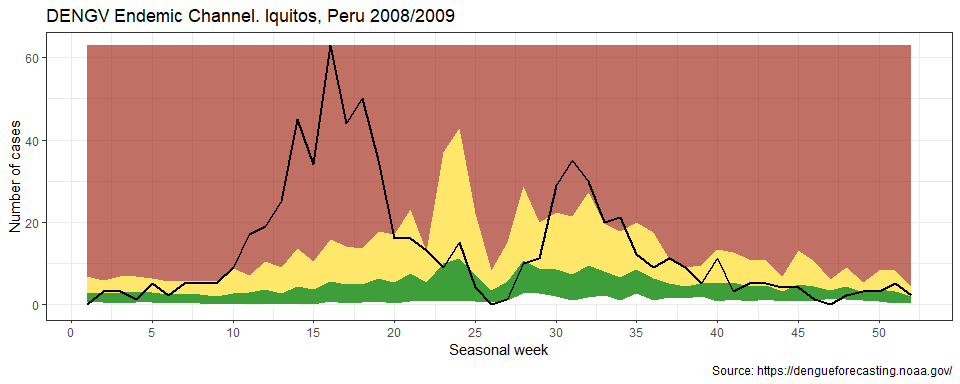
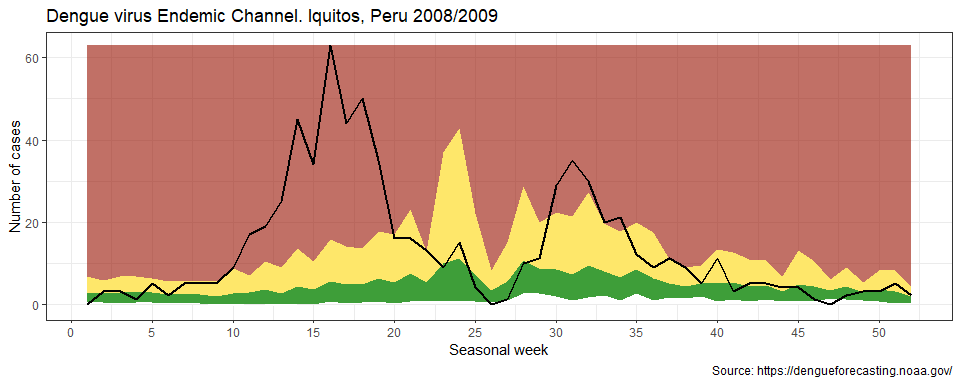
fix type at example and readme

Changed region(s): [[0.0625, 0.0, 0.5312, 0.0625]]

diff --git a/README.md b/README.md
@@ -40,7 +40,7 @@ library(epichannel)
 library(tidyverse)
 
 # disease dataset
-dengv <-
+denv <-
   readr::read_csv("https://dengueforecasting.noaa.gov/Training/Iquitos_Training_Data.csv") %>%
   mutate(year = lubridate::year(week_start_date),
          epiweek = lubridate::epiweek(week_start_date)) %>%
@@ -48,7 +48,7 @@ dengv <-
   # cases per season - replace wiht a dummy year
   mutate(year = str_replace(season,"(.+)/(.+)","\\1") %>% as.double())
 
-dengv %>% glimpse()
+denv %>% glimpse()
 #> Rows: 468
 #> Columns: 12
 #> $ season               <chr> "2000/2001", "2000/2001", "2000/2001", "2...
@@ -84,7 +84,7 @@ popdb %>% glimpse()
 
 ``` r
 epi_adapted <-
-  epi_adapt_timeserie(db_disease = dengv,
+  epi_adapt_timeserie(db_disease = denv,
                       db_population = popdb,
                       var_admx = adm,
                       var_year = year, # must be a common variable name between datasets
@@ -125,7 +125,7 @@ disease_pre <- epi_adapted %>%
 ``` r
 disease_channel <-
   epi_create_channel(time_serie = disease_pre,
-                     disease_name = "dengv",
+                     disease_name = "denv",
                      method = "gmean_1sd")
 #> Joining, by = "var_admx"
 
@@ -133,16 +133,16 @@ disease_channel
 #> # A tibble: 52 x 6
 #>    var_admx var_week median  low_95 upp_95 key  
 #>    <fct>       <dbl>  <dbl>   <dbl>  <dbl> <chr>
-#>  1 iquitos         1   2.80  0.267    6.80 dengv
-#>  2 iquitos         2   2.64  0.484    5.82 dengv
-#>  3 iquitos         3   2.78  0.259    6.75 dengv
-#>  4 iquitos         4   2.86  0.424    6.62 dengv
-#>  5 iquitos         5   2.72  0.454    6.12 dengv
-#>  6 iquitos         6   2.25  0.127    5.44 dengv
-#>  7 iquitos         7   2.22  0.0474   5.52 dengv
-#>  8 iquitos         8   2.34  0.167    5.61 dengv
-#>  9 iquitos         9   1.82 -0.420    5.44 dengv
-#> 10 iquitos        10   2.66 -0.513    8.65 dengv
+#>  1 iquitos         1   2.80  0.267    6.80 denv 
+#>  2 iquitos         2   2.64  0.484    5.82 denv 
+#>  3 iquitos         3   2.78  0.259    6.75 denv 
+#>  4 iquitos         4   2.86  0.424    6.62 denv 
+#>  5 iquitos         5   2.72  0.454    6.12 denv 
+#>  6 iquitos         6   2.25  0.127    5.44 denv 
+#>  7 iquitos         7   2.22  0.0474   5.52 denv 
+#>  8 iquitos         8   2.34  0.167    5.61 denv 
+#>  9 iquitos         9   1.82 -0.420    5.44 denv 
+#> 10 iquitos        10   2.66 -0.513    8.65 denv 
 #> # ... with 42 more rows
 ```
 
@@ -155,7 +155,7 @@ epi_join_channel(disease_channel = disease_channel,
                  disease_now = disease_now) %>%
   # ggplot
   epi_plot_channel() +
-  labs(title = "DENGV Endemic Channel. Iquitos, Peru 2008/2009",
+  labs(title = "Dengue virus Endemic Channel. Iquitos, Peru 2008/2009",
        caption = "Source: https://dengueforecasting.noaa.gov/",
        # x = "epiweeks",
        x = "Seasonal week",
